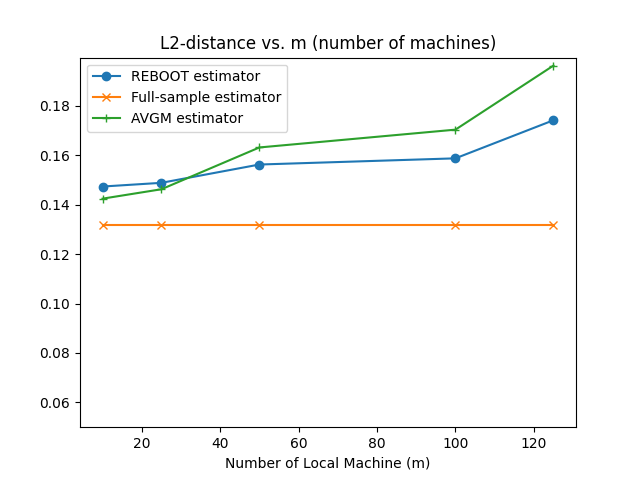
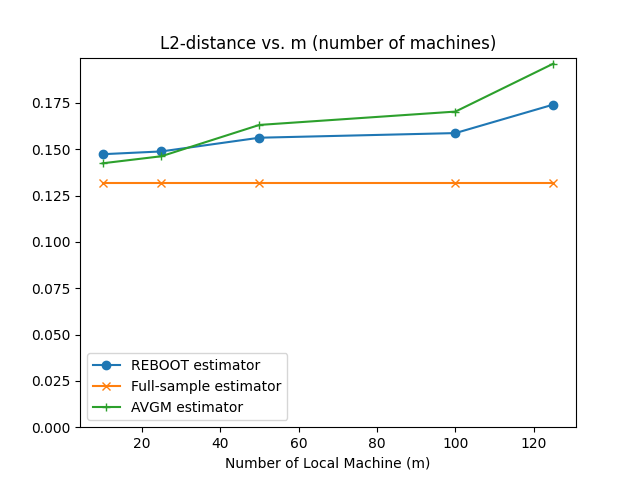
change ploting function plot_naive.py

diff --git a/plots/Rasch_plot/plot_naive.py b/plots/Rasch_plot/plot_naive.py
@@ -28,7 +28,7 @@ if __name__ == "__main__":
     plt.plot(K, avg_d, marker='+', label="AVGM estimator")
     # plt.plot(K, local_d, marker='*', label="Local estimator")
     plt.legend()
-    plt.ylim(ymin=0.05)
+    plt.ylim(ymin=0)
     plt.xlabel("Number of Local Machine (m)")
     plt.title("L2-distance vs. m (number of machines)")
     plt.savefig("plots/Rasch_plot/Rasch-2500-1.png")
